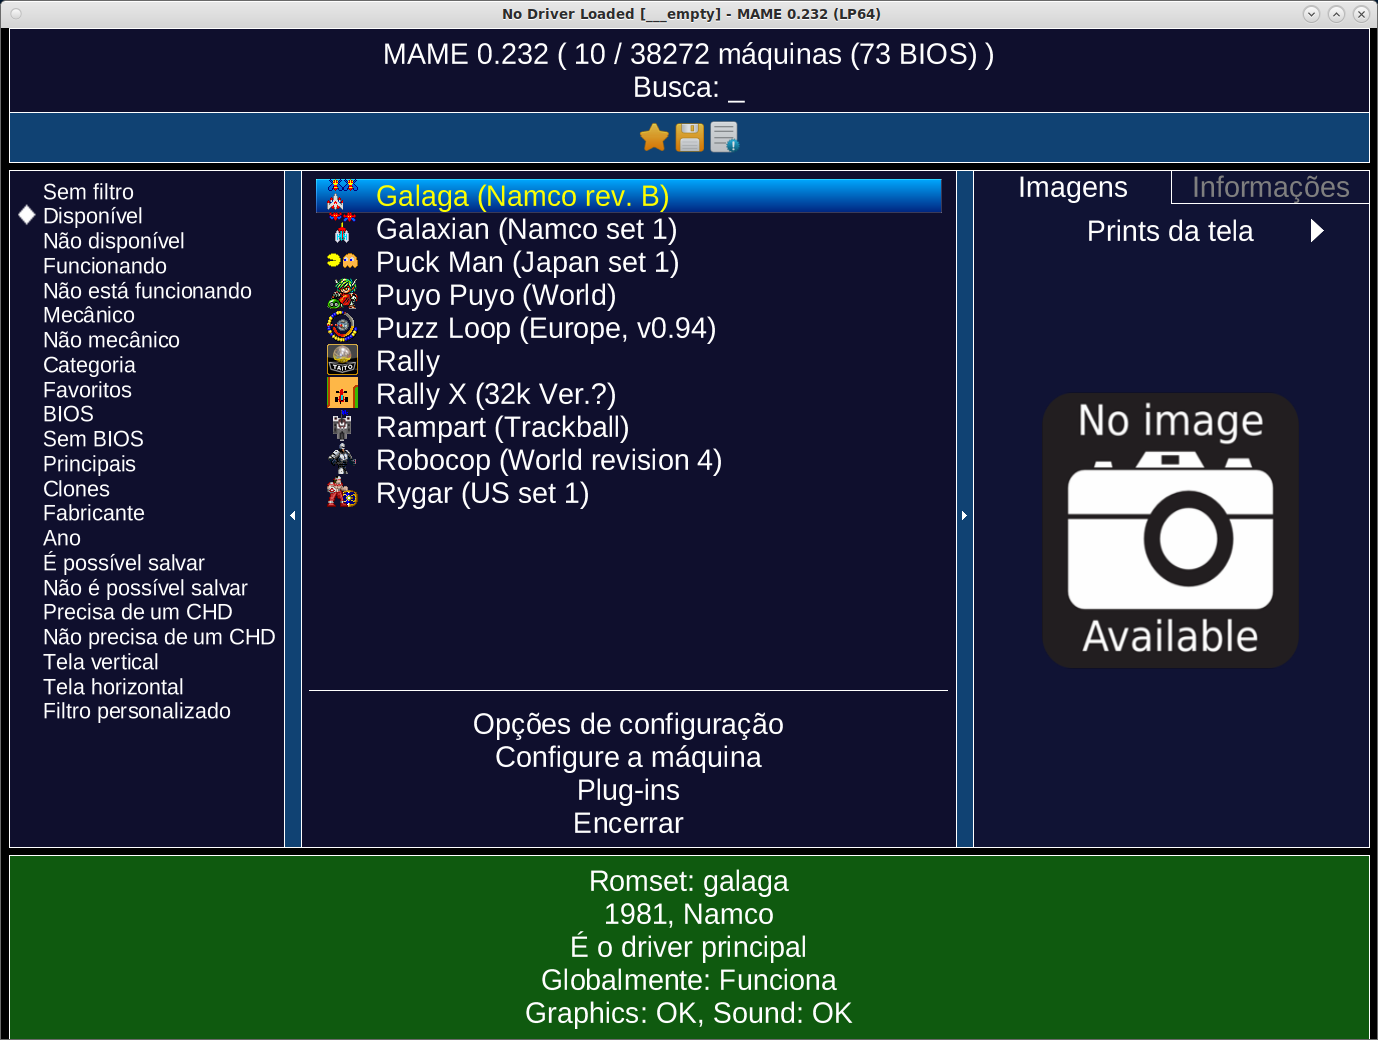
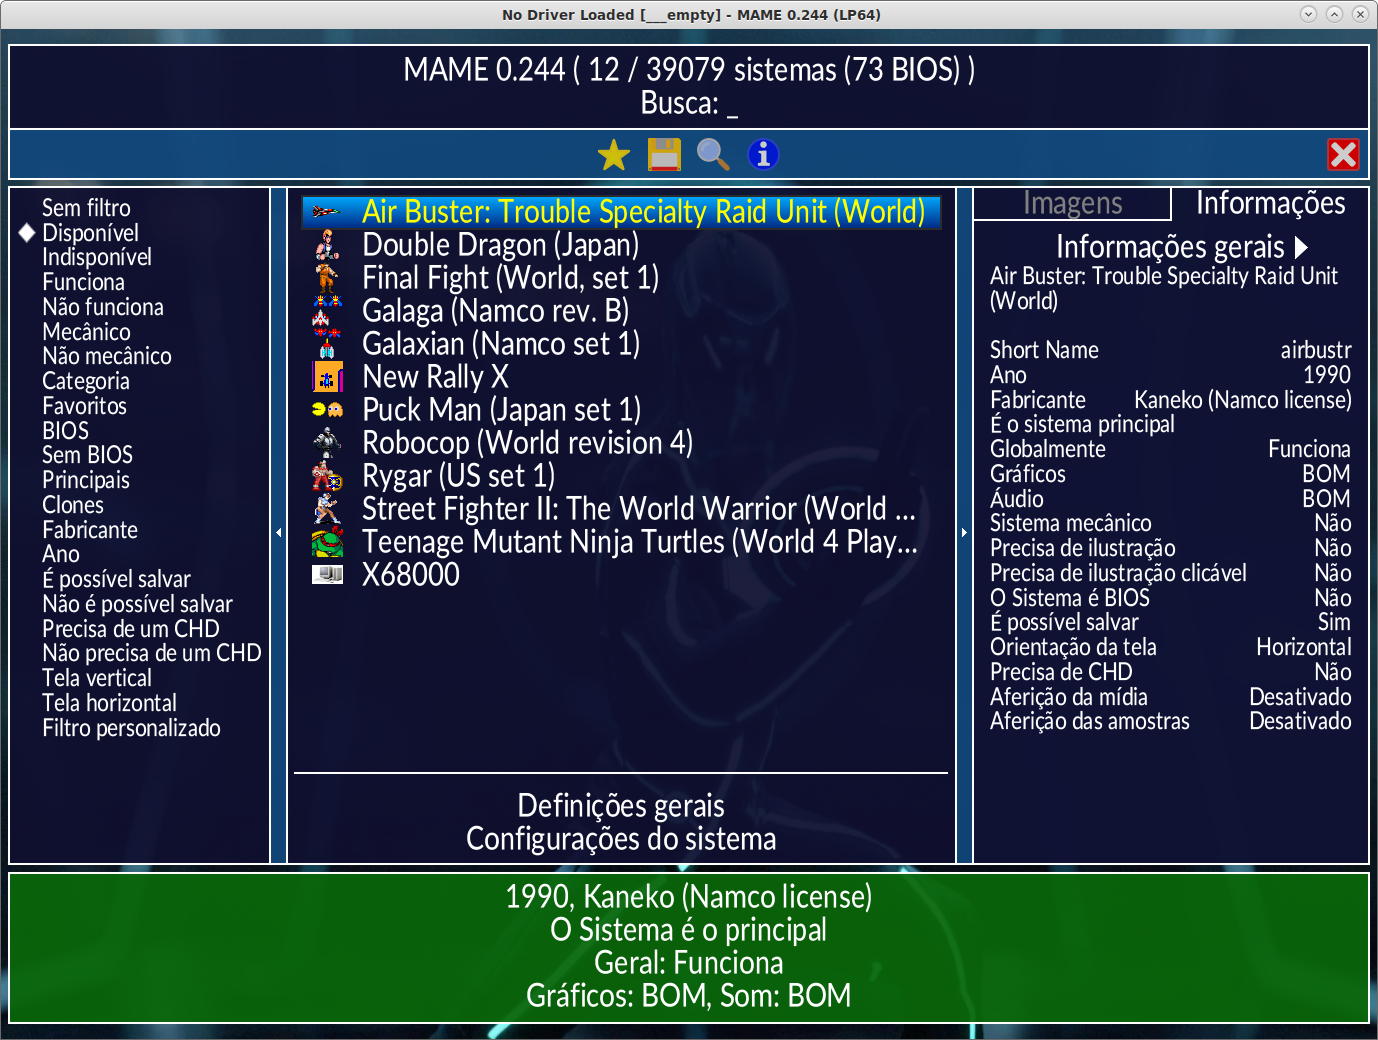
Atualiza as imagens com as novas nomenclaturas da interface

Changed region(s): [[0.0, 0.0, 1.0, 1.0]]

diff --git a/source/usingmame/usingmame.rst b/source/usingmame/usingmame.rst
@@ -25,7 +25,6 @@ complexo, porém é bem mais simples do que parece.
 Inicie o MAME clicando duas vezes no executável:
 
 .. figure:: images/mame_main.png
-	:width: 100%
 	:align: center
 	:figclass: align-center
 	:alt: Tela principal do MAME
@@ -35,20 +34,19 @@ Inicie o MAME clicando duas vezes no executável:
 	\clearpage
 
 Boa parte da interface já foi traduzida, para trocar o idioma da
-interface vá em :guilabel:`Configure Options` -->
+interface gráfica, vá em :guilabel:`General Settings` -->
 :guilabel:`Customize UI`, clique duas vezes em :guilabel:`Language`,
 role para baixo e selecione :guilabel:`Portuguese (Brazil)`. Retorne e
-:guilabel:`Salve a configuração`.
+faça um clique duplo em :guilabel:`Salva as definições`.
 
 A versão da tradução compatível com este documento pode ser encontrado
-em `mamedoc <https://github.com/wtuemura/mamedoc>`_ ou mais precisamente
-`aqui <https://github.com/wtuemura/mamedoc/tree/master/language/Portuguese_Brazil>`_.
+no site do `mamedoc <https://github.com/wtuemura/mamedoc>`_ ou mais
+precisamente `aqui <https://github.com/wtuemura/mamedoc/tree/master/language/Portuguese_Brazil>`_.
 
 Baixe o arquivo ``strings.mo`` e copie-o para o diretório
-**language\\Portuguese_Brazil**.
+**language\\Portuguese_Brazil**, substituindo o que já está lá.
 
 .. figure:: images/mame_main_pt_br.png
-	:width: 100%
 	:align: center
 	:figclass: align-center
 	:alt: Tela principal do MAME traduzido
@@ -63,13 +61,14 @@ configurações ficam armazenadas em arquivos <*nome_do_sistema*>.ini, no
 Windows fica no mesmo diretório do executável do MAME e no Linux/macOS
 fica em ``~/.mame``.
 
-Apesar de ser possível fazer algumas configurações através da interface,
+Apesar de ser possível fazer algumas definições através da interface,
 nem todas as :ref:`configurações do MAME <mame-commandline-universal>`
 estão acessíveis pela interface, configurações mais específicas ainda
-precisam ser feitas por linha de comando ou por arquivos ``*.ini``.
+precisam ser feitas através da linha de comando ou por arquivos
+``*.ini`` específicos. Consulte :ref:`advanced-multi-CFG` para obter
+mais informações.
 
 .. figure:: images/mame_config_machine.png
-	:width: 100%
 	:align: center
 	:figclass: align-center
 	:alt: Configuração individual do sistema
@@ -83,17 +82,22 @@ Ainda é possível fazer personalizações visuais como adicionar uma
 ao lado dos nomes dos sistemas:
 
 .. figure:: images/mame_icons.png
-	:width: 100%
 	:align: center
 	:figclass: align-center
 	:alt: Ícones
 
-Tais ícones são mantidos fora do projeto MAME pelo
+Tais ícones são mantidos fora do projeto MAME, eles são mantidos pelo
 `progetto-SNAPS <https://www.progettosnaps.net/icons/>`_. A instalação é
 simples, baixe o arquivo mais recente e extraia o diretório **icons** e
 **folders** dentro do diretório do MAME, caso apareça algum erro de
 arquivo já existente basta sobrescrever. Agora ao iniciar o MAME o nomes
 dos sistemas mostram um ícone.
+
+Note porém que quanto mais "coisas" forem adicionadas, o MAME vai levar
+mais tempo para carregar tudo para exibi-los na interface principal,
+porém, isso não altera em nada o funcionamento e a performance do MAME
+quando for executado através da linha de comando ou por uma
+:ref:`fron-tend <frontends>`.
 
 .. raw:: latex
 
@@ -106,7 +110,6 @@ do sistema para que seja salvo uma **captura da tela** na pasta
 direito da interface do MAME.
 
 .. figure:: images/mame_captura_tela.png
-	:width: 100%
 	:align: center
 	:figclass: align-center
 	:alt: Captura da tela
@@ -125,13 +128,12 @@ leve isso em consideração.
 Os sistemas que você mais gosta de jogar podem ser adicionadas aos
 :guilabel:`Favoritos`, na interface durante a seleção do sistema, clique
 com o botão direito em cima do nome do sistema e selecione a opção
-:guilabel:`Adicione aos favoritos`. Caso tenha iniciado o MAME pela
+:guilabel:`Adiciona aos favoritos`. Caso tenha iniciado o MAME pela
 linha de comando ou caso o sistema já esteja rodando, pressione
 :kbd:`Tab` para abrir a tela de opções e escolha
-:guilabel:`Adicione aos favoritos`.
+:guilabel:`Adiciona aos favoritos`.
 
 .. figure:: images/mame_favoritos.png
-	:width: 100%
 	:align: center
 	:figclass: align-center
 	:alt: Favoritos
@@ -162,12 +164,13 @@ Para iniciar um sistema específico junto com um software faça:
 
 	**mame** <*sistema*> <*software*>
 
-Em **sistema** escolha uma das centenas de sistemas emulados, já em
-**software** é o nome do sistema [#]_ que deseja rodar. O software
-nada mais é do que um nome de uma ROM ou a imagem de uma mídia. É
-possível também a utilização de um **catálogo de programas**
-(**softlists**), no catálogo tem a lista de programas compatíveis (ou
-não) no banco de dados interno do MAME com o sistema em questão.
+Em **sistema**, escolha um sistema numa lista de centenas de sistemas
+emulados, já em **software** é o nome do sistema [#]_ que deseja rodar.
+O software nada mais é do que um nome de uma ROM ou a imagem de uma
+mídia. É possível também a utilização de um
+:guilabel:`[ catálogo de programas ]` (**softlists**), no catálogo tem a
+lista de programas compatíveis (ou não) no banco de dados interno do
+MAME com o sistema em questão.
 
 Para rodar o **Sonic the Headgehog** na versão do **Sega Genesis
 Americano**, por exemplo, execute o comando como mostrado abaixo:
@@ -178,12 +181,15 @@ Alternativamente, também é possível iniciar MAME apenas com o sistema:
 
 	**mame genesis**
 
-Selecione **cartridge (cart)**, depois **catálogo de programas** para
-ver uma lista de qual deseja iniciar. Para que essa lista funcione é
-necessário ter um conjunto ROMs compatíveis no diretório **roms**.
+Selecione :guilabel:`cartridge (cart)`, depois
+:guilabel:`[ catálogo de programas ]` para ver uma lista de qual deseja
+iniciar. Para que essa lista funcione é necessário ter um conjunto ROMs
+compatíveis no diretório **roms** ou outro que você definir.
 Observe que muitas cópias de ROMs antigas, de fitas e de discos que
 funcionavam em versões anteriores, podem não mais serem reconhecidas
 pelas versões mais novas do MAME exigindo algum tipo de atualização.
+Consulte :ref:`assetsearch-softlist` para obter mais informações sobre o
+catálogo de programas.
 
 A estrutura básica da linha de comando fica assim:
 
@@ -358,7 +364,6 @@ o teclado do seu computador, pressione :kbd:`Tab` e vá em
 :guilabel:`Dispositivos de slot`:
 
 .. figure:: images/mame_slot_options.png
-	:width: 100%
 	:align: center
 	:figclass: align-center
 	:alt: Opções do slot
@@ -378,7 +383,6 @@ arquivos avulsos, talvez uma gravação de uma fita k7 feita por você, a
 imagem de algum cartucho que só você tenha, que tenha baixado, etc.
 
 .. figure:: images/mame_gerenciador.png
-	:width: 100%
 	:align: center
 	:figclass: align-center
 	:alt: Opções do slot
@@ -407,7 +411,6 @@ a imagem seja incompatível com esta versão do MSX ou até mesmo a imagem
 está com algum problema, não foi capturada corretamente, etc.
 
 .. figure:: images/mame_load_zanac.png
-	:width: 100%
 	:align: center
 	:figclass: align-center
 	:alt: Carregando imagem ZANAC
@@ -492,8 +495,9 @@ da ROM, ou seja, uma pasta ``sfiii`` dentro da pasta **roms**::
 
 .. [#]	Os desenvolvedores do MAME preferem usar o termo **sistemas** em
 		vez de **jogos**, talvez visando evitar problemas legais? O
-		termo "máquina" foi alterado
-		`neste commit <https://github.com/mamedev/mame/commit/f47f9c3db3c7d20bea0526425cdbc469d5a10868>`_.
+		termo "*máquina*" foi alterado
+		`neste commit <https://github.com/mamedev/mame/commit/f47f9c3db3c7d20bea0526425cdbc469d5a10868>`_
+		para sistema.
 .. [#]	Existe uma diferença entre driver e sistema, o comando em
 		questão funciona apenas com sistemas. Os arcades são considerados
 		drivers como o CPS1, CP2, ZN, etc; os jogos dentros dos drivers

diff --git a/source/usingmame/assetsearch.rst b/source/usingmame/assetsearch.rst
@@ -28,6 +28,9 @@ opções disponíveis para controlar onde o MAME deve procurar pelos
 arquivos e os diferentes tipos de configurações, consulte os capítulos
 :ref:`mame-commandline-pathoptions` e o :ref:`advanced-multi-CFG`.
 
+
+.. _assetsearch-terminologia:
+
 Terminologia
 ~~~~~~~~~~~~
 
@@ -128,6 +131,8 @@ mais adiante:
 	\clearpage
 
 
+.. _assetsearch-path-options:
+
 Opções do caminho para fazer a busca
 ------------------------------------
 
@@ -144,6 +149,8 @@ onde o executável do MAME estiver. Caso inicie o MAME clicando duas
 vezes nele através do *Finder* do macOS ou na maioria das distribuições
 Linux, o seu **home** será definido como o diretório de trabalho.
 
+
+.. _assetsearch-compact-files:
 
 Arquivos compactados
 --------------------
@@ -176,6 +183,8 @@ carregamento dos arquivos, então o uso de "compactação sólida"
 geralmente resulta no MAME descompactando os mesmos dados repetidamente
 durante o carregamento da mídia.
 
+
+.. _assetsearch-media-search:
 
 Como o MAME procura por uma mídia?
 ----------------------------------
@@ -216,6 +225,8 @@ SSDs. É melhor manter as imagens CHD sem compressão dentro das suas
 respectivas pastas.
 
 
+.. _assetsearch-system-roms:
+
 As ROMs dos sistemas
 ~~~~~~~~~~~~~~~~~~~~
 
@@ -241,6 +252,8 @@ buscará pelas ROMs do sistema nesta ordem:
   **coh3002c**, um arquivo PKZIP chamado ``coh3002c.zip`` ou um arquivo
   7-Zip chamado ``coh3002c.7z``.
 
+
+.. _assetsearch-device-roms:
 
 ROMs do dispositivo
 ~~~~~~~~~~~~~~~~~~~
@@ -278,6 +291,8 @@ procurará a ROM do microcontrolador do teclado da seguinte maneira:
 * Caso não haja uma BIOS que corresponda ao sistema, então o MAME não
   fará mais buscas.
 
+
+.. _assetsearch-softlist:
 
 As ROMs dos itens dos programas
 ~~~~~~~~~~~~~~~~~~~~~~~~~~~~~~~
@@ -345,6 +360,8 @@ Mega Drive, o MAME procurará a ROM do cartucho ROM da seguinte maneira:
   chamado ``genesis.zip`` ou um arquivo 7-Zip chamado ``genesis.7z``.
 
 
+.. _assetsearch-chd:
+
 As imagens de disco no formato CHD
 ~~~~~~~~~~~~~~~~~~~~~~~~~~~~~~~~~~
 
@@ -371,6 +388,8 @@ através das as imagens de disco no formato CHD, com algumas diferenças:
   (*checksum*) do próprio arquivo CHD. A soma de verificação do próprio
   arquivo CHD pode variar dependendo das opções de compressão.
 
+
+.. _assetsearch-loose-software:
 
 Programas avulsos
 ~~~~~~~~~~~~~~~~~
@@ -414,6 +433,8 @@ no arquivo ``sys603.zip`` montado na primeira unidade de disquete:
 
     mame macplus -flop1 "sys603.zip/system tools.img"
 
+
+.. _assetsearch-missing-media:
 
 Diagnosticando uma mídia ausente
 ~~~~~~~~~~~~~~~~~~~~~~~~~~~~~~~~
